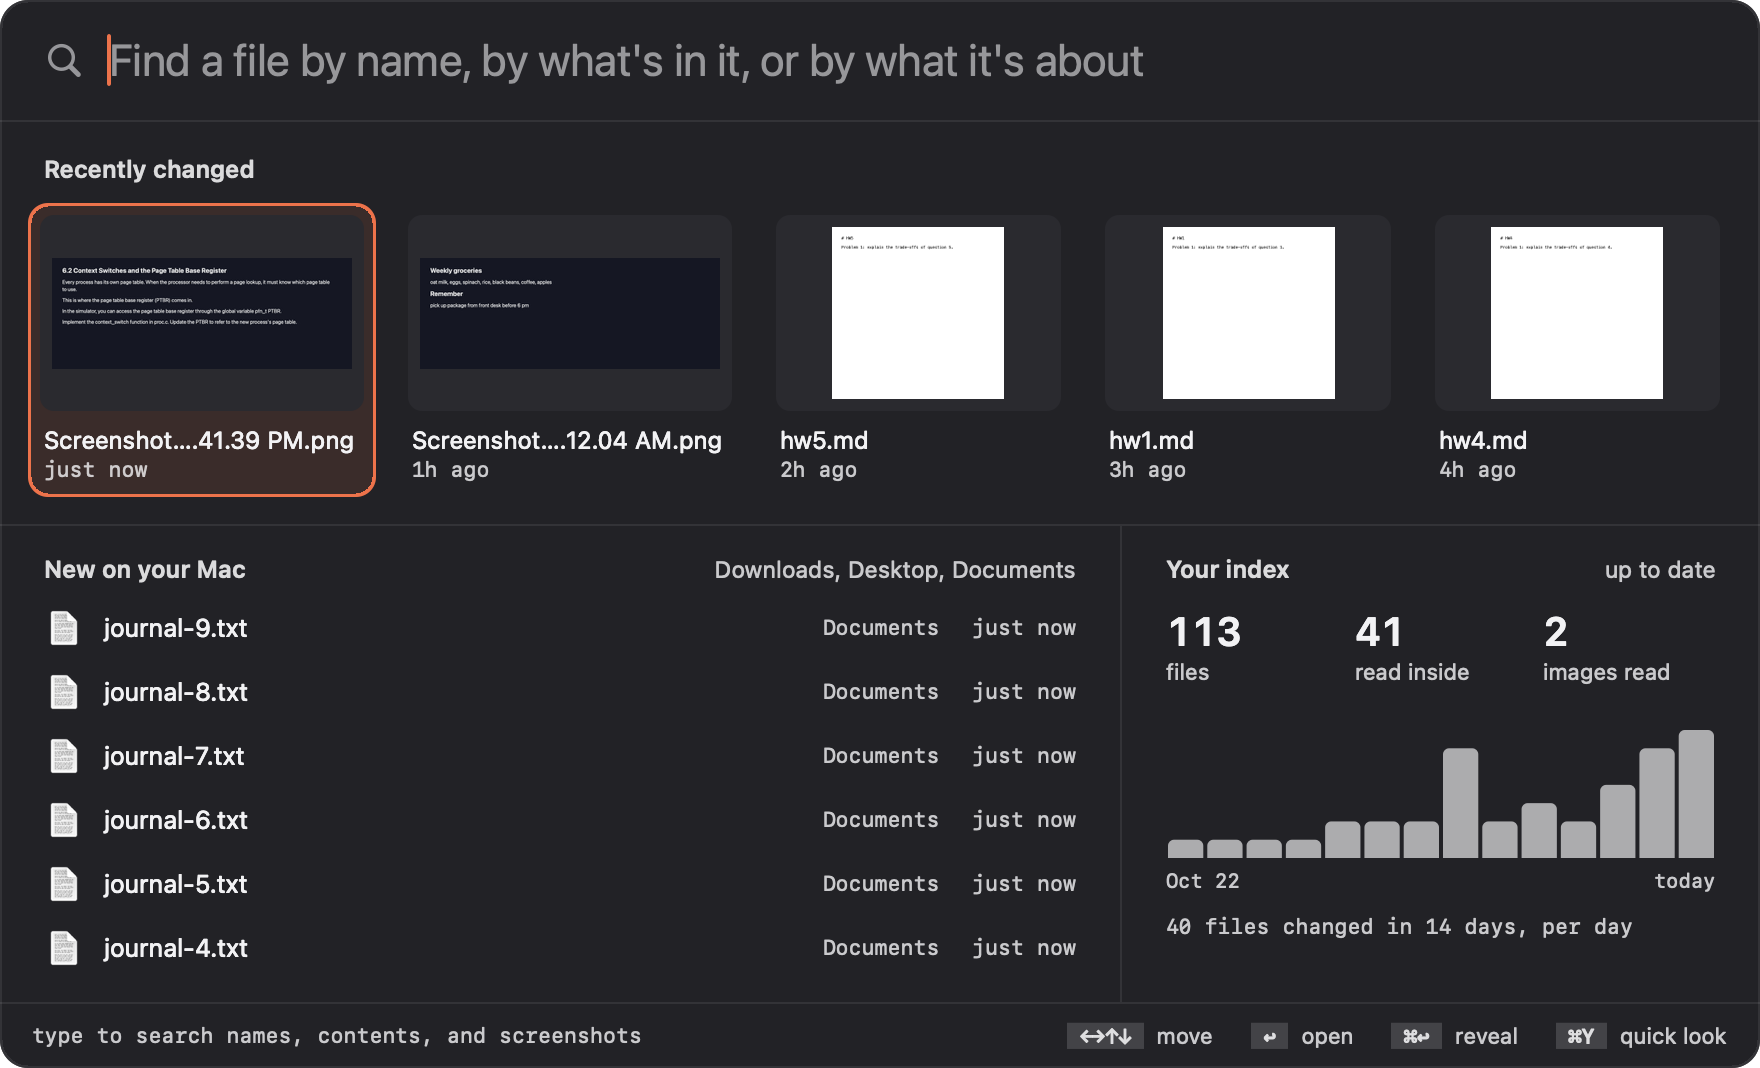
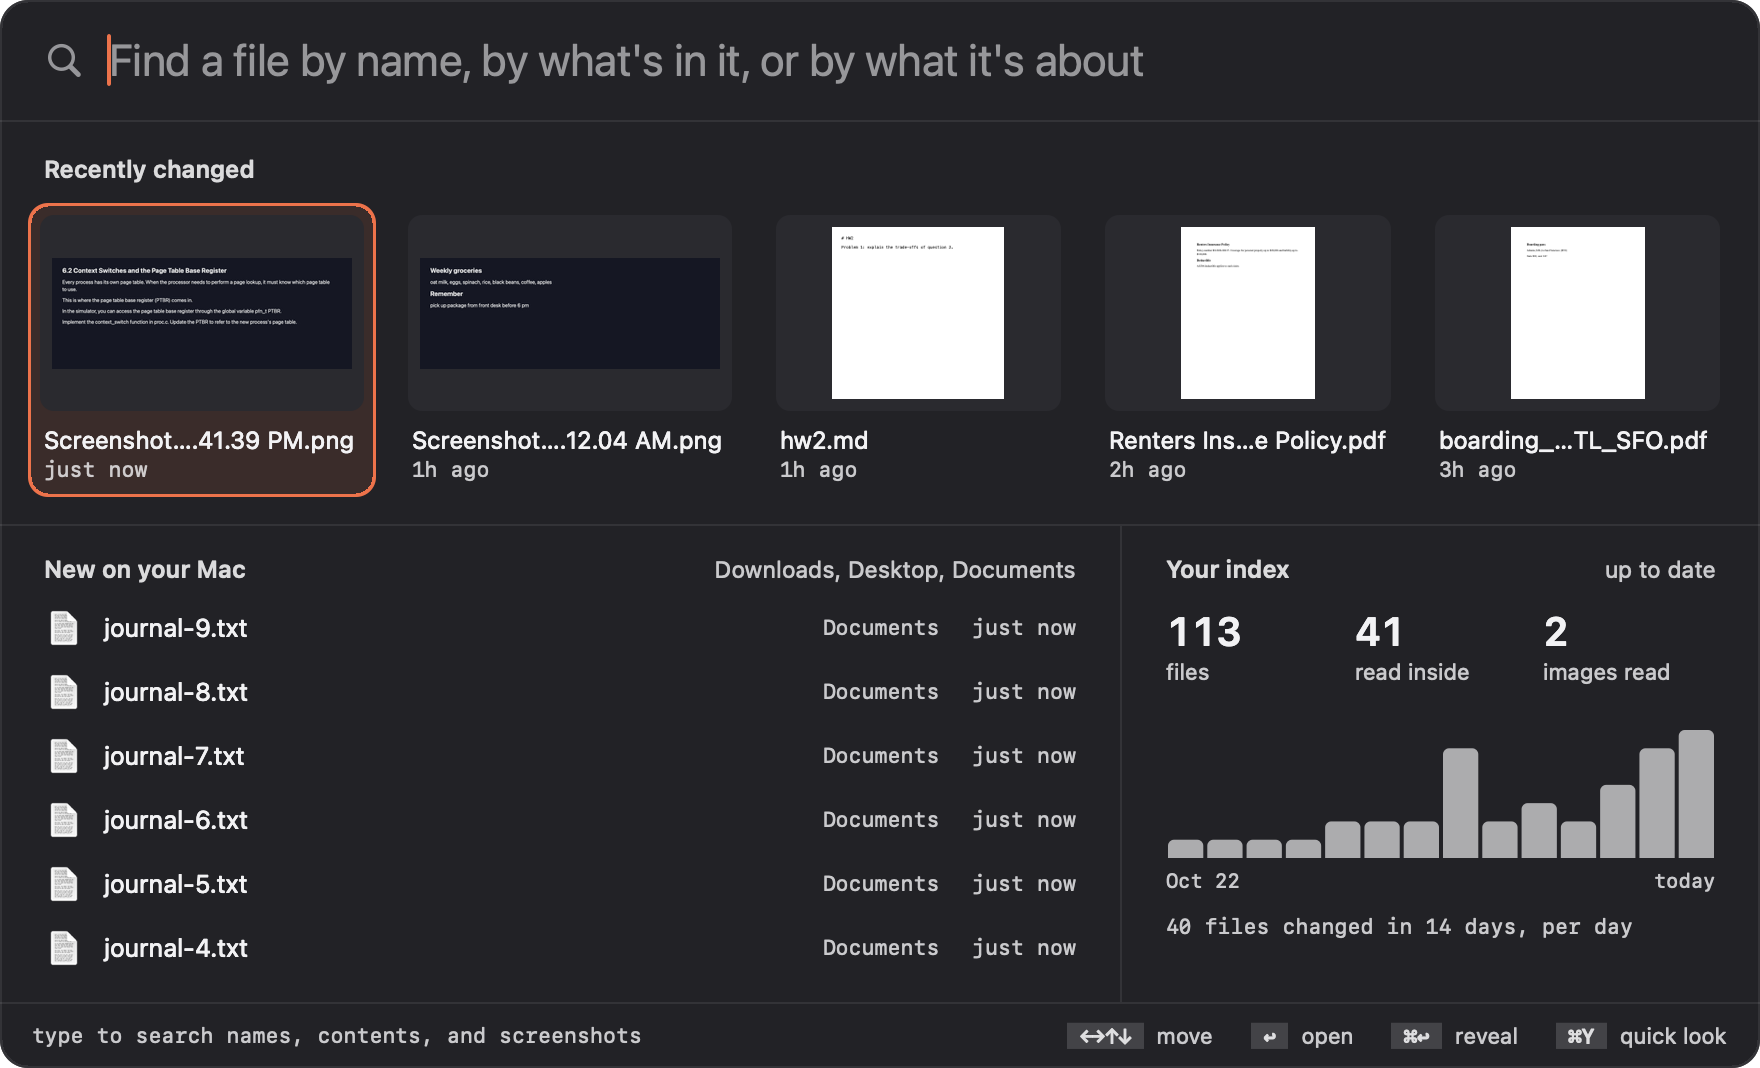
Replace personal examples with neutral ones and retake screenshots
Demo files move out of build/, whose contents Seek deliberately never reads.

diff --git a/Sources/Seek/Matcher.swift b/Sources/Seek/Matcher.swift
@@ -113,8 +113,8 @@ enum Matcher {
         return fuzzyOrNone(k, q: q, qc: qc)
     }
 
-    /// The query typed without separators ("cs2200") against a name that has
-    /// them ("CS-2200", "CS 2200 Textbook"): match while skipping spaces in the
+    /// The query typed without separators ("q3report") against a name that has
+    /// them ("Q3-Report", "Q3 Report Draft"): match while skipping spaces in the
     /// name. Only starts at word boundaries, so it stays precise.
     @inline(__always)
     static func compactMatch(_ k: UnsafeBufferPointer<UInt8>, stemLen: Int, qc: UnsafeBufferPointer<UInt8>) -> (Tier, Int)? {
@@ -189,7 +189,7 @@ enum Matcher {
         return nil
     }
 
-    /// Substring test over the normalized parent path (for "cs2200/hw3" queries).
+    /// Substring test over the normalized parent path (for "work/budget" queries).
     static func pathContains(_ path: String, _ needle: [UInt8]) -> Bool {
         let parent = (path as NSString).deletingLastPathComponent
         let k = Normalizer.key(parent)

diff --git a/Sources/Seek/EvidencePane.swift b/Sources/Seek/EvidencePane.swift
@@ -228,7 +228,7 @@ final class EvidencePane: NSView {
         title.stringValue = "Ways to search"
         meta.stringValue = "Seek reads names, text inside files, and text inside images."
         folderStack.arrangedSubviews.forEach { $0.removeFromSuperview() }
-        for (q, what) in [("cs2200", "Names ignore case, spaces, dashes and underscores"),
+        for (q, what) in [("q3report", "Names ignore case, spaces, dashes and underscores"),
                           ("dev/notes", "Text before a slash limits results to matching folders"),
                           ("changed:yesterday", "Files changed on a day: today, yesterday, mon...sun, 2026-10-30"),
                           ("how does paging work", "Describe it in words: matched by meaning, not spelling")] {

diff --git a/README.md b/README.md
@@ -28,8 +28,8 @@ You remember a file by *something*: its exact name, a phrase inside it, what was
 
 | You type | Seek finds |
 |---|---|
-| `Physics Distinction Award` | the file with exactly that name — always first |
-| `cs2200` | `CS-2200/`, `CS 2200 Textbook.pdf` (separators and case don't matter) |
+| `Quarterly Budget Final` | the file with exactly that name — always first |
+| `q3report` | `Q3-Report/`, `Q3 Report Draft.pdf` (separators and case don't matter) |
 | `lease agreement` | the PDFs that *say* "lease agreement", with the line highlighted |
 | `page table base register` | the screenshot of your lecture slide that shows those words |
 | `how virtual memory translation works` | `L07 Memory management.docx` — no shared keywords needed |
@@ -47,11 +47,11 @@ Every result shows *why* it matched:
   </tr>
   <tr>
     <td><img src="docs/images/meaning.png" alt="A question finds a lecture document by meaning" /></td>
-    <td><img src="docs/images/name-match.png" alt="Typing 'cs3210' finds the folder 'CS 3210' and lists what is inside" /></td>
+    <td><img src="docs/images/name-match.png" alt="Typing 'os101' finds the folder 'OS 101' and lists what is inside" /></td>
   </tr>
   <tr>
     <td><b>By meaning.</b> A question finds the lecture document; the meter shows only the meaning signal fired.</td>
-    <td><b>By name.</b> <code>cs3210</code> finds <code>CS 3210</code>; separators and case don't matter.</td>
+    <td><b>By name.</b> <code>os101</code> finds <code>OS 101</code>; separators and case don't matter.</td>
   </tr>
 </table>
 
@@ -65,7 +65,7 @@ Finder's search box is a front end to Spotlight's index. When that index is stal
 |---|---|---|
 | Exact name always ranked first | ✅ | ❌ mixed with content hits |
 | Independent of Spotlight's index health | ✅ | ❌ |
-| Typo- and separator-tolerant (`cs2200` → `CS-2200`) | ✅ | ❌ word prefixes only |
+| Typo- and separator-tolerant (`q3report` → `Q3-Report`) | ✅ | ❌ word prefixes only |
 | Unicode-normalized names (NFD, U+202F in screenshot names) | ✅ | partial |
 | Full text in code, PDF, DOCX, PPTX, XLSX | ✅ | ✅ |
 | Text inside screenshots and photos (OCR) | ✅ | partial (Live Text, not reliably indexed) |
@@ -85,7 +85,7 @@ Finder's search box is a front end to Spotlight's index. When that index is stal
 - **Evidence pane.** The selected result shows *why* it matched: the PDF page region with your words highlighted, the screenshot with boxes where OCR found them, the numbered code lines, or the matching passage. Step through hits with <kbd>⌥↓</kbd>.
 - **Match meter.** Three thin bars on every row show how strongly the name, the text and the meaning matched.
 - **Home screen.** Before you type: thumbnails of files you opened recently, what just arrived in Downloads/Desktop/Documents, index health, and a 14-day activity chart. Click a day to list what changed.
-- **Folder filter.** `dev/notchmusic` limits results to paths containing `dev`.
+- **Folder filter.** `work/budget` limits results to paths containing `work`.
 - **Date filter.** `changed:today`, `changed:yesterday`, `changed:mon` (any weekday) or `changed:2026-10-30`, optionally with more words.
 
 ## Setup
@@ -122,11 +122,11 @@ Press <kbd>⌥ Space</kbd> anywhere to open Seek. (If another app already owns t
 
 | To find a file by | Type | Example |
 |---|---|---|
-| its name, or part of it | the words, any case, any separators | `cs2200`, `physics award` |
+| its name, or part of it | the words, any case, any separators | `q3report`, `budget final` |
 | words inside it | a phrase from the text | `security deposit refundable` |
 | text in a screenshot or photo | words you saw in the image | `page table base register` |
 | what it's about | a question or description | `how virtual memory translation works` |
-| its folder | folder, a slash, then the name | `dev/notchmusic` |
+| its folder | folder, a slash, then the name | `work/budget` |
 | when it changed | `changed:` plus a day, optionally more words | `changed:yesterday pdf`, `changed:mon`, `changed:2026-10-30` |
 
 **Read the results.** The right pane shows why the selected file matched: the highlighted PDF page, the boxed words in a screenshot, the numbered code lines, or a folder's contents. The three bars on each row show how strongly the **name**, the **text** and the **meaning** matched. Press <kbd>⇥</kbd> to narrow results to Names, Contents, Images or Folders.
@@ -200,7 +200,7 @@ Model2Vec distills a sentence transformer (bge-base-en-v1.5) into a single token
 Useful for benchmarking and testing; each builds its own index and exits.
 
 ```sh
-.build/release/Seek --query "exact name" "cs2200"          # name search
+.build/release/Seek --query "exact name" "q3report"        # name search
 .build/release/Seek --content "lease agreement" --hybrid    # full pipeline
 .build/release/Seek --content "virtual memory" --semantic   # meaning only
 .build/release/Seek --watch-test                            # live-update self-test

diff --git a/CONTRIBUTING.md b/CONTRIBUTING.md
@@ -18,7 +18,7 @@ swift build -c release     # just compile
 There is no XCTest suite yet; the binary has command-line modes that exercise each layer without the UI:
 
 ```sh
-.build/release/Seek --query "exact name" "cs2200"          # name index + matcher
+.build/release/Seek --query "exact name" "q3report"        # name index + matcher
 .build/release/Seek --content "lease agreement" --hybrid    # full text + semantic + fusion
 .build/release/Seek --watch-test                            # create/rename/move/delete is picked up live
 ```
@@ -39,7 +39,7 @@ The README's [component table](README.md#how-it-works) maps each layer to a file
 README screenshots are taken against a fake home folder so no personal files appear:
 
 ```sh
-scripts/demo/make-home.sh                                  # writes build/demo-home
+scripts/demo/make-home.sh                                  # writes demo-home/
 swift build -c release
 scripts/demo/shot.sh home ""                               # home screen
 APPEARANCE=light scripts/demo/shot.sh pdf "lease agreement"
